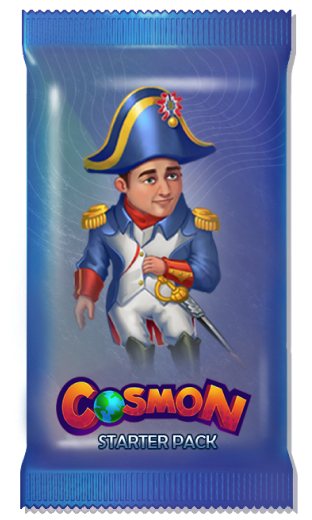
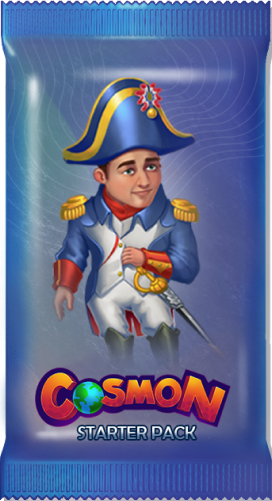
feat: add animated card

diff --git a/src/components/AnimatedImage/AnimatedImage.tsx b/src/components/AnimatedImage/AnimatedImage.tsx
@@ -1,0 +1,107 @@
+import { round } from '@utils/math'
+import clsx from 'clsx'
+import { motion, useMotionValue, useTransform } from 'framer-motion'
+import React, { useRef, useState } from 'react'
+import styles from './AnimatedImage.module.scss'
+
+interface AnimatedImageProps {
+  imgSrc: string
+  imgClassName: string
+}
+
+const AnimatedImage: React.FC<AnimatedImageProps> = ({ imgSrc, imgClassName }) => {
+  const cardRef = useRef<HTMLDivElement>(null)
+
+  const rotateMotionY = useMotionValue(0.5)
+  const rotateMotionX = useMotionValue(0.5)
+
+  const rotateX = useTransform(rotateMotionY, [0, 1], [10, -10], { clamp: true })
+  const rotateY = useTransform(rotateMotionX, [0, 1], [-10, 10], { clamp: true })
+
+  const glareMotionOpacity = useMotionValue(0)
+  const glareOpacity = useTransform(glareMotionOpacity, [0, 1], [0, 1])
+
+  const [glareX, setGlareX] = useState(50)
+  const [glareY, setGlareY] = useState(50)
+
+  const handlePointerMoveCard = (e: any) => {
+    const bounds = e.currentTarget?.getBoundingClientRect()
+    if (!bounds) return
+
+    if (e.type === 'touchmove') {
+      e.clientX = e.touches[0].clientX
+      e.clientY = e.touches[0].clientY
+    }
+
+    const absolute = {
+      x: e.clientX - bounds.x,
+      y: e.clientY - bounds.y,
+    }
+
+    const percent = {
+      x: round((100 / bounds.width) * absolute.x),
+      y: round((100 / bounds.height) * absolute.y),
+    }
+
+    // set x,y local coordinates
+    const xValue = absolute.x / e.currentTarget.clientWidth
+    const yValue = absolute.y / e.currentTarget.clientHeight
+
+    rotateMotionY.set(yValue, true)
+    rotateMotionX.set(xValue, true)
+
+    setGlareX(percent.x)
+    setGlareY(percent.y)
+    glareMotionOpacity.set(0.6, true)
+  }
+
+  const handlePointerLeave = () => {
+    rotateMotionX.set(0.5, true)
+    rotateMotionY.set(0.5, true)
+
+    setGlareX(50)
+    setGlareY(50)
+    glareMotionOpacity.set(0, true)
+  }
+
+  return (
+    <div
+      style={{
+        perspective: 600,
+        display: 'grid',
+        willChange: 'transform',
+      }}
+    >
+      <motion.div
+        ref={cardRef}
+        className={clsx('relative ', styles.container)}
+        onPointerMove={handlePointerMoveCard}
+        onMouseOut={handlePointerLeave}
+        style={{
+          rotateY,
+          rotateX,
+          overflow: 'hidden',
+        }}
+      >
+        <motion.img src={imgSrc} className={imgClassName} />
+
+        <motion.div
+          style={{
+            position: 'absolute',
+            top: '50%',
+            right: '50%',
+            transform: 'translate3d(50%, -50%, 1.4px)',
+            background: `radial-gradient(farthest-corner circle at ${glareX}% ${glareY}%,rgba(255,255,255,.8) 10%,rgba(255,255,255,.65) 20%,rgba(0,0,0,.5) 90%) center center`,
+            mixBlendMode: 'overlay',
+            opacity: glareOpacity,
+            width: '100%',
+            height: '99%',
+            borderRadius: 0,
+          }}
+        />
+      </motion.div>
+    </div>
+  )
+}
+
+export default AnimatedImage

diff --git a/src/containers/getting-started/guide/comonents/steps/GuideStepGetCosmon.tsx b/src/containers/getting-started/guide/comonents/steps/GuideStepGetCosmon.tsx
@@ -1,8 +1,9 @@
 import React from 'react'
+import Button from '@components/Button/Button'
+import AnimatedImage from '@components/AnimatedImage/AnimatedImage'
 
 import commonStyles from './GuideStep.module.scss'
 import styles from './GuideStepGetCosmon.module.scss'
-import Button from '@components/Button/Button'
 
 interface GuideStepGetCosmonProps {}
 
@@ -27,7 +28,9 @@ const GuideStepGetCosmon: React.FC<GuideStepGetCosmonProps> = ({}) => {
       <div className={styles.blackBoxesContainer}>
         <div className={styles.blackBoxContainer}>
           <img src="/getting-started/raffle-one-card.png" alt="" />
-          <p className={styles.title}>Open a potion and receive a random card by scarsity</p>
+          <p className={styles.title} style={{ marginTop: 53 }}>
+            Open a potion and receive a random card by scarsity
+          </p>
           <a href={`${window.location.origin}/buy-cosmon`} target={'_blank'}>
             <Button type="secondary" size="small">
               Buy cosmon
@@ -35,8 +38,13 @@ const GuideStepGetCosmon: React.FC<GuideStepGetCosmonProps> = ({}) => {
           </a>
         </div>
         <div className={styles.blackBoxContainer}>
-          <img src="/getting-started/raffle-one-deck.png" alt="" />
-          <p className={styles.title}>Be ready for figth with 3 commun cards</p>
+          <AnimatedImage
+            imgSrc="/getting-started/raffle-one-deck.png"
+            imgClassName={styles.imgStarterPack}
+          />
+          <p className={styles.title} style={{ marginTop: 27 }}>
+            Be ready for figth with 3 commun cards
+          </p>
           <a href={`${window.location.origin}/buy-cosmon`} target={'_blank'}>
             <Button type="secondary" size="small">
               Buy cosmon

diff --git a/src/containers/getting-started/guide/comonents/steps/GuideStepGetCosmon.module.scss b/src/containers/getting-started/guide/comonents/steps/GuideStepGetCosmon.module.scss
@@ -12,7 +12,7 @@
 .blackBoxesContainer {
   display: flex;
   gap: 160px;
-  margin-top: 60px;
+  margin-top: 90px;
 
   .blackBoxContainer {
     display: flex;
@@ -31,12 +31,11 @@
       color: rgba(#ffffff, 0.9);
     }
 
+    .imgStarterPack,
     img {
       height: 239px;
       width: 100%;
       object-fit: contain;
-      margin-top: 25px;
-      margin-bottom: 35px;
     }
 
     .title {
@@ -57,7 +56,6 @@
       max-width: 280px;
       img {
         height: 181px;
-        margin-bottom: 53px;
       }
     }
   }

diff --git a/src/components/AnimatedImage/AnimatedImage.module.scss b/src/components/AnimatedImage/AnimatedImage.module.scss
@@ -1,0 +1,7 @@
+.container {
+  position: relative;
+  width: 100%;
+  display: grid;
+  grid-area: 1/1;
+  transform-style: preserve-3d;
+}
